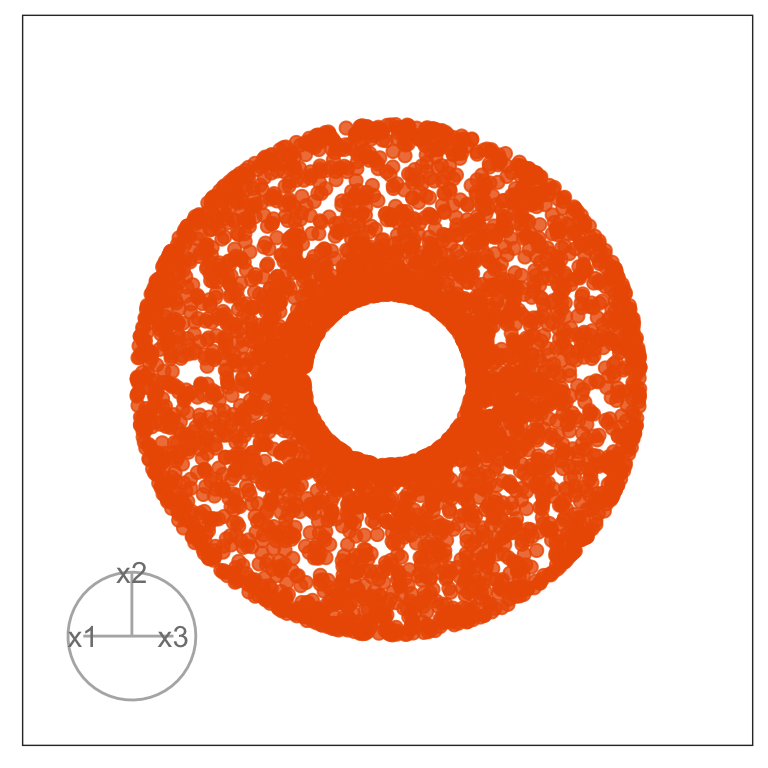
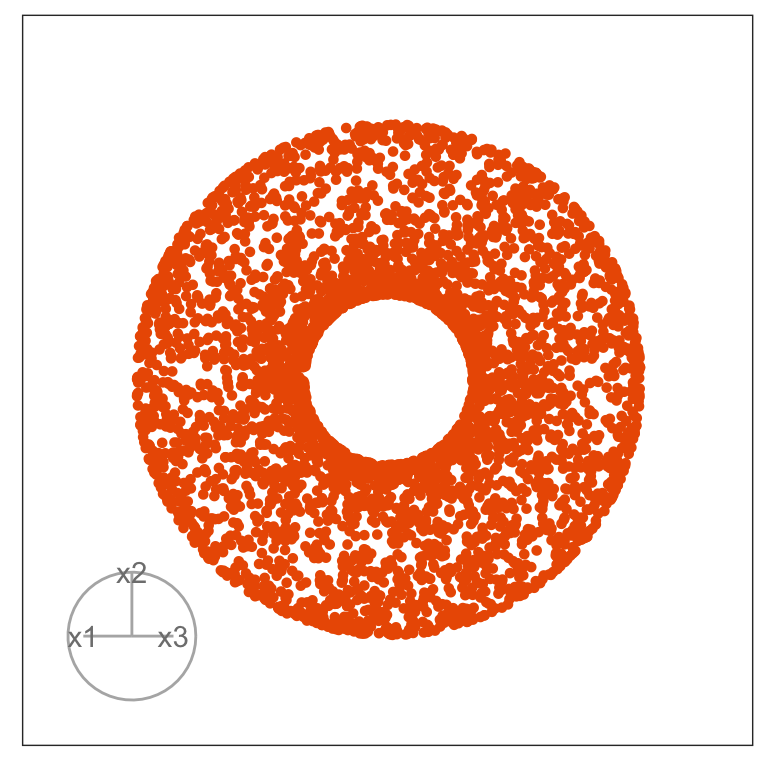
completed 2D explanation

diff --git a/docs/intro.html b/docs/intro.html
@@ -416,7 +416,7 @@ div.csl-indent {
 <p></p><figcaption class="figure-caption">Figure&nbsp;2: How a tour can be used to explore high-dimensional data illustrated using (a) 2D data with two clusters and (b) a tour of 1D projections shown as a density plot. Imagine spinning a line around the centre of the data plot, with points projected orthogonally onto the line. With this data, when the line is at <code>x1=x2 (0.707, 0.707)</code> or <code>(-0.707, -0.707)</code> the clustering is the strongest. When it is at <code>x1=-x2  (0.707, -0.707)</code> there is no clustering.</figcaption><p></p>
 </figure>
 </div>
-<p><a href="#fig-explain-1D">Figure&nbsp;<span>2</span></a> illustrates a tour for 2D data and 1D projections. The (grand) tour will generate all possible 1D projections of the data, and display with a univariate plot like a histogram or density plot. For this data, the <code>simple_clusters</code> data, depending on the projection, the distribution might be clustered into two groups (bimodal), or there might be no clusters (unimodal). In this example, all projections are generated by rotating a line around the centre of the plot. Clustering can be seen in many of the projections, with the strongest being when the contribution of both variables is equal, and the projection is <code>(0.707,  0.707)</code> or <code>(-0.707, -0.707)</code>.</p>
+<p><a href="#fig-explain-1D">Figure&nbsp;<span>2</span></a> illustrates a tour for 2D data and 1D projections. The (grand) tour will generate all possible 1D projections of the data, and display with a univariate plot like a histogram or density plot. For this data, the <code>simple_clusters</code> data, depending on the projection, the distribution might be clustered into two groups (bimodal), or there might be no clusters (unimodal). In this example, all projections are generated by rotating a line around the centre of the plot. Clustering can be seen in many of the projections, with the strongest being when the contribution of both variables is equal, and the projection is <code>(0.707,  0.707)</code> or <code>(-0.707, -0.707)</code>. (If you are curious about the number <code>0.707</code>, read the last section of this chapter.)</p>
 <div class="cell">
 
 </div>
@@ -429,28 +429,29 @@ div.csl-indent {
 <div id="fig-explain-2D" class="quarto-layout-panel">
 <figure class="figure">
 <div class="quarto-layout-row quarto-layout-valign-top">
-<div class="quarto-layout-cell quarto-layout-cell-subref" style="flex-basis: 60.0%;justify-content: center;">
+<div class="quarto-layout-cell quarto-layout-cell-subref" style="flex-basis: 57.0%;justify-content: center;">
 <div id="fig-explain-2D-tour" class="quarto-figure quarto-figure-center anchored">
 <figure class="figure">
 <p><img src="gifs/explain_2d.gif" class="img-fluid figure-img" alt="" data-ref-parent="fig-explain-2D"></p>
-<p></p><figcaption class="figure-caption">(a) 2D grand tour of the 3D data</figcaption><p></p>
+<p></p><figcaption class="figure-caption">(a) 2D tour of 3D data</figcaption><p></p>
 </figure>
 </div>
 </div>
-<div class="cell quarto-layout-cell" style="flex-basis: 40.0%;justify-content: center;">
+<div class="cell quarto-layout-cell" style="flex-basis: 43.0%;justify-content: center;">
 <div class="cell-output-display">
 <div id="fig-explain-2D-data" class="quarto-figure quarto-figure-center anchored">
 <figure class="figure">
 <p><img src="intro_files/figure-html/fig-explain-2D-data-1.png" class="img-fluid figure-img" data-ref-parent="fig-explain-2D" width="384"></p>
-<p></p><figcaption class="figure-caption">(b) 2D data</figcaption><p></p>
+<p></p><figcaption class="figure-caption">(b) A projection revealing the hole</figcaption><p></p>
 </figure>
 </div>
 </div>
 </div>
 </div>
-<p></p><figcaption class="figure-caption">Figure&nbsp;3: 3D example</figcaption><p></p>
+<p></p><figcaption class="figure-caption">Figure&nbsp;3: How a tour can be used to explore high-dimensional data illustrated using a tour of 2D projections of 3D data (a). The data has a donut shape with the hole revealed in a single 2D projection (b). Data usually arrives with a given number of observations, and when we plot it like this using a scatterplot, it is like shadows of a transparent object.</figcaption><p></p>
 </figure>
 </div>
+<p><a href="#fig-explain-2D">Figure&nbsp;<span>3</span></a> illustrates a tour for 3D data using 2D projections. The data are points on the surface of a donut shape. By showing the projections using a scatterplot the donut looks transparent and we can see through the data. The donut shape can be inferred from watching many 2D projections but some are more revealing that others. The projection shown in (b) is where the hole in the donut is clearly visible.</p>
 <!-- 
 Description and explanation of primary methods used throughout the book. Mostly focusing on tour methods.
 
@@ -587,6 +588,7 @@ y_{n1} &amp; y_{n2} &amp; \dots &amp; y_{nd} \end{array} \right]_{n\times d}
 [3,] 4.8783 4.8076</code></pre>
 </div>
 </div>
+<p>The seemingly magical number <code>0.707</code> used above and to create the projection in <a href="#fig-explain-1D">Figure&nbsp;<span>2</span></a> arises from normalising a vector with equal contributions from each variable, <code>(1, 1)</code>. Dividing by <code>sqrt(2)</code> gives <code>(0.707, 0.707)</code>.</p>
 <!-- Most data arrives with a mix of numerical and categorical, and temporal or spatial variables. In this book we are primarily focused on methods to visualise multiple numerical variables. -->
 </section>
 <section id="the-big-picture-of-the-book" class="level2">
